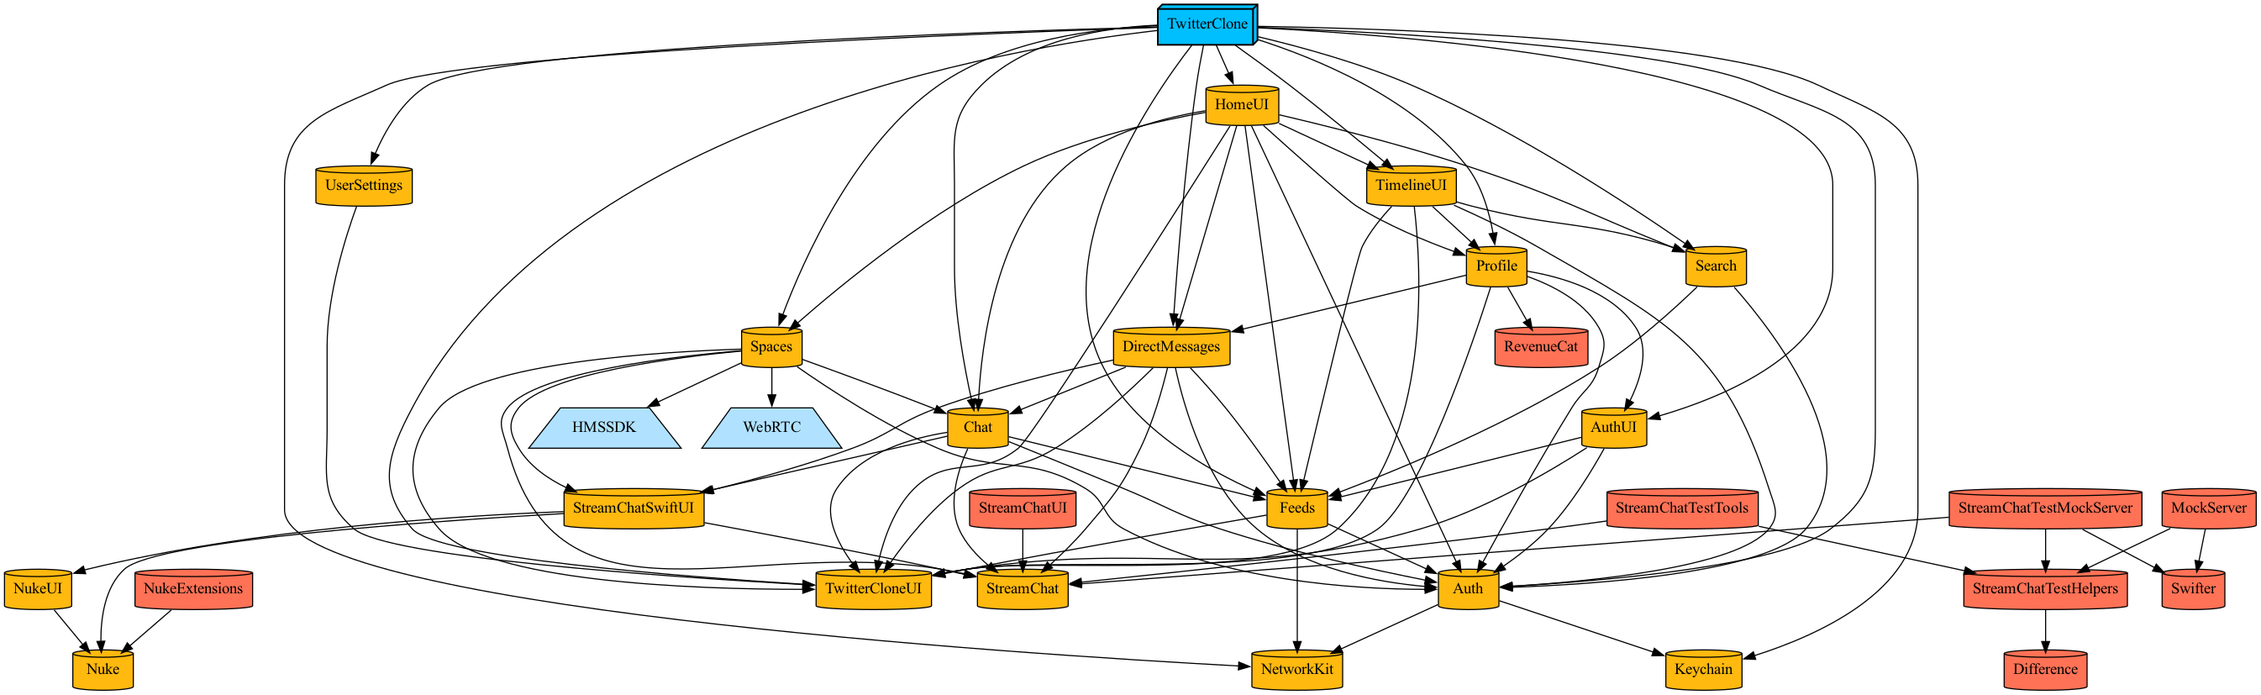
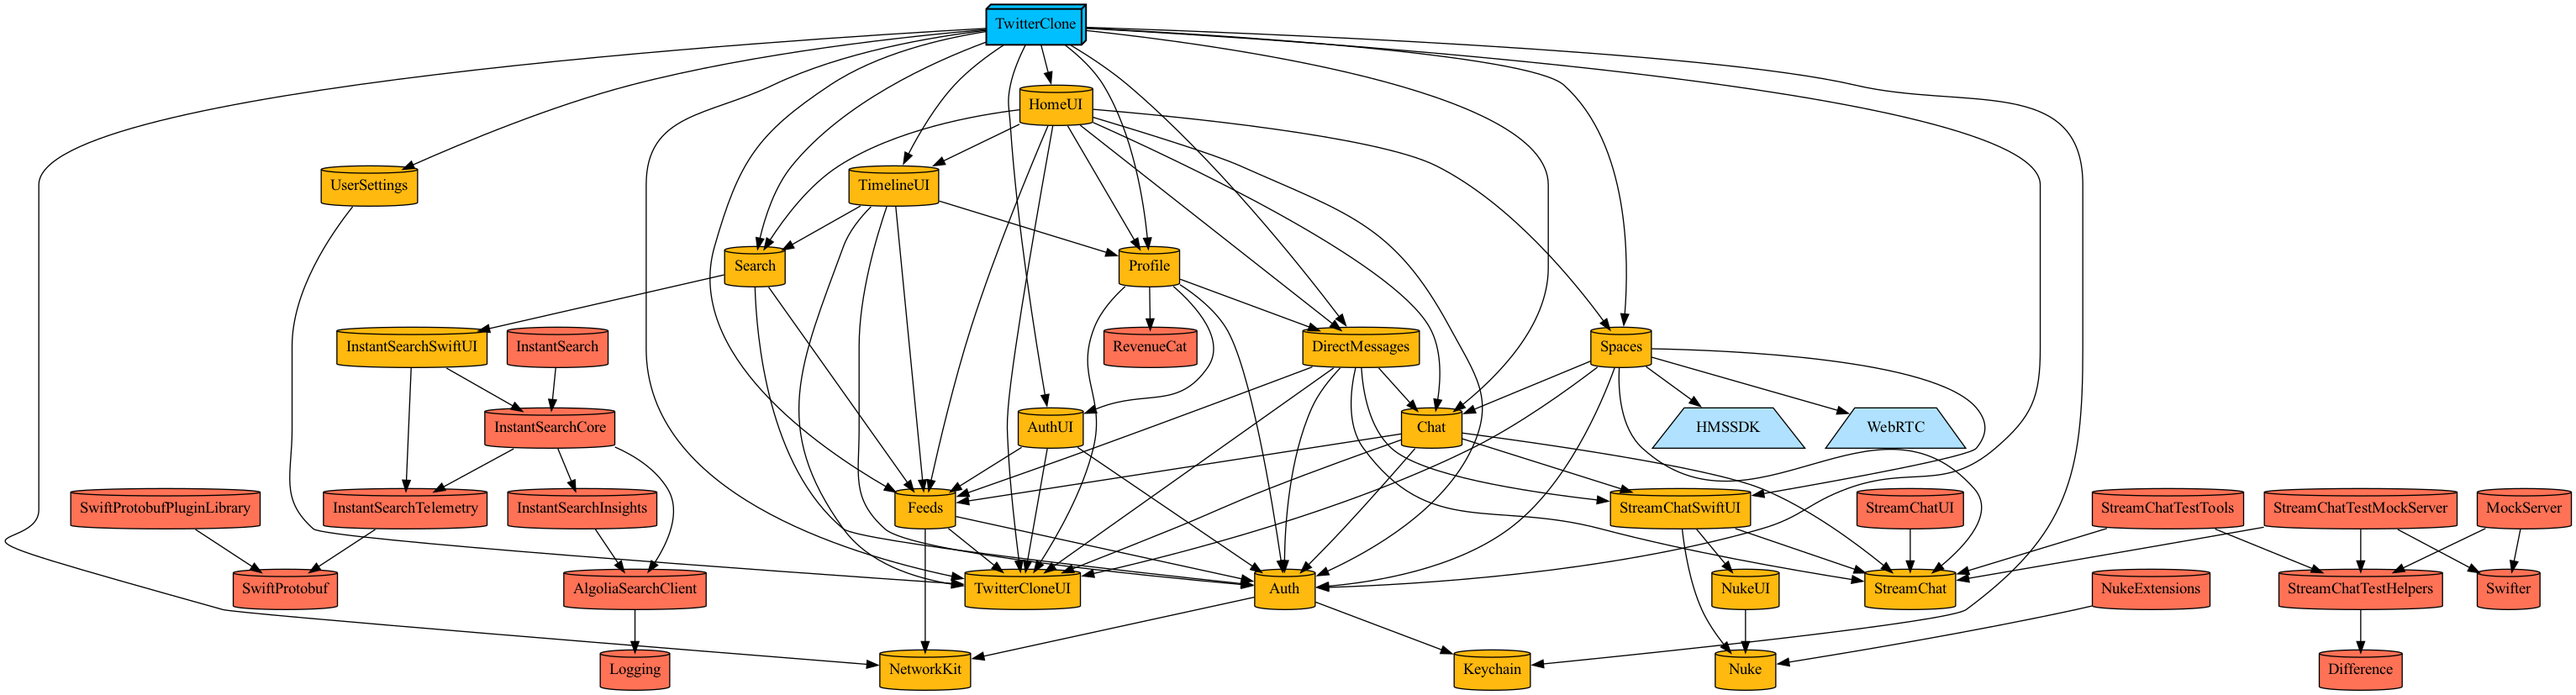
Add Algolia dependency

diff --git a/TwitterClone/Tuist/Dependencies.swift b/TwitterClone/Tuist/Dependencies.swift
@@ -12,12 +12,14 @@ var swiftPackageManagerDependencies = SwiftPackageManagerDependencies(
      .remote(url: "https://github.com/GetStream/stream-chat-swift.git", requirement: .upToNextMajor(from: "4.0.0")),
      .remote(url: "https://github.com/100mslive/100ms-ios-sdk.git",requirement: .upToNextMinor(from: "0.6.2")),
      .remote(url: "https://github.com/RevenueCat/purchases-ios.git", requirement: .range(from: "4.0.0", to: "5.0.0")),
+     .remote(url: "https://github.com/algolia/instantsearch-ios", requirement: .range(from: "7.0.0", to: "8.0.0")),
     ],
     productTypes: [
         "StreamChatSwiftUI" : .framework,
         "StreamChat": .framework,
         "Nuke": .framework,
         "NukeUI": .framework,
+        "InstantSearchSwiftUI": .framework,
     ]
 )
 

diff --git a/TwitterClone/Project.swift b/TwitterClone/Project.swift
@@ -62,7 +62,8 @@ let searchTarget =
                                  platform: .iOS,
                                  dependencies: [
                                     .target(name: feedsName),
-                                    .target(name: authName)
+                                    .target(name: authName),
+                                    .external(name: "InstantSearchSwiftUI")
                                  ])
 let settingsTarget =
     Project.makeFrameworkTargets(name: settingsName,

diff --git a/TwitterClone/Targets/Profile/Sources/SubscribeBlue.swift b/TwitterClone/Targets/Profile/Sources/SubscribeBlue.swift
@@ -72,7 +72,7 @@ public struct SubscribeBlue: View {
                 }
                 Button {
                     Purchases.shared.purchase(package: package) { transaction, customerInfo, error, userCancelled in
-                        if customerInfo?.entitlements.all["your_entitlement_id"]?.isActive == true {
+                        if customerInfo?.entitlements.all["blue"]?.isActive == true {
                             print("Bought")
                         }
                     }

diff --git a/TwitterClone/Targets/Profile/Sources/PurchaseViewModel.swift b/TwitterClone/Targets/Profile/Sources/PurchaseViewModel.swift
@@ -30,7 +30,7 @@ public class PurchaseViewModel: ObservableObject {
         Purchases.configure(with: configuration)
         
         Purchases.shared.getCustomerInfo { customerInfo, error in
-            self.isSubscriptionActive = customerInfo?.entitlements.all["pro"]?.isActive == true
+            self.isSubscriptionActive = customerInfo?.entitlements.all["blue"]?.isActive == true
             if let error {
                 print(error)
             }
